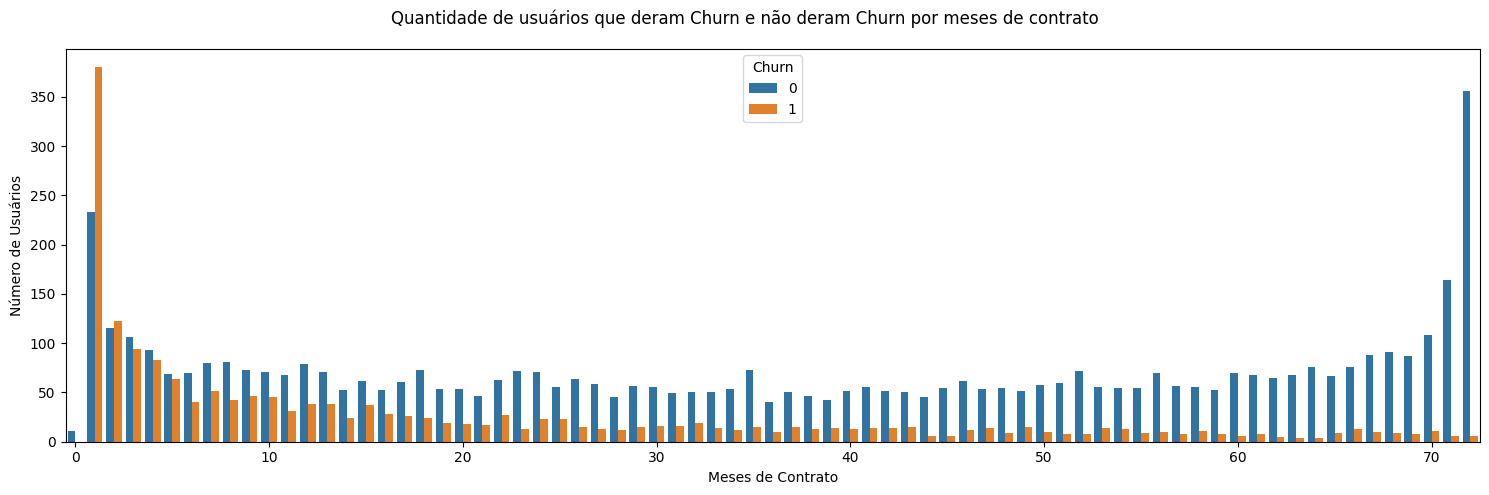
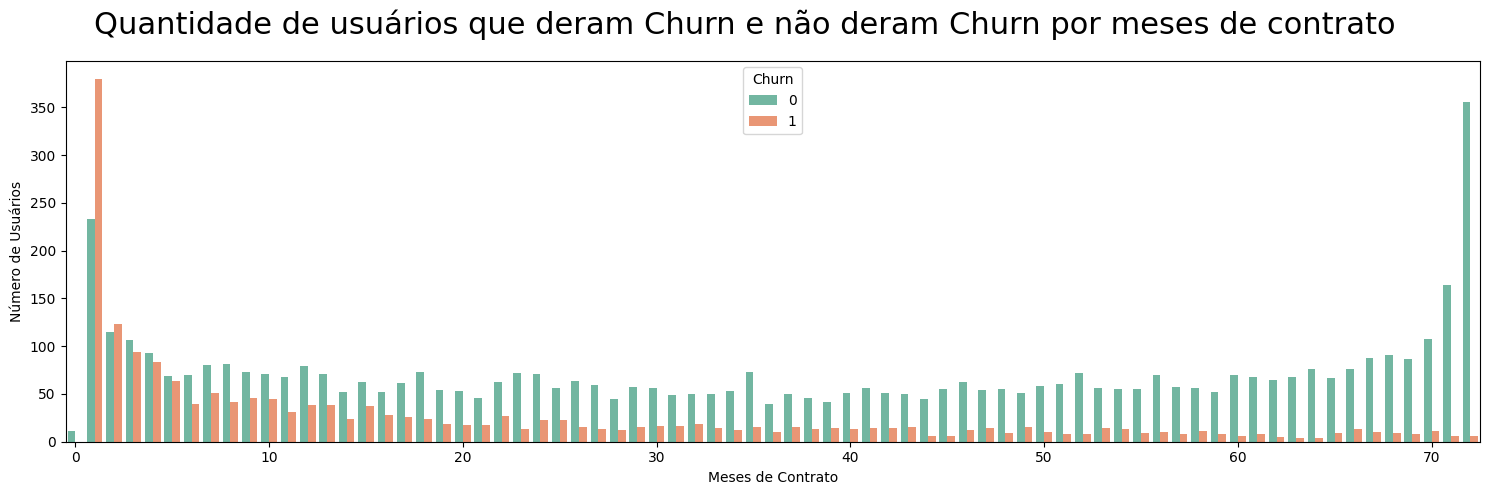
Ajustes finais

diff --git a/analise.py b/analise.py
@@ -22,9 +22,9 @@ plt.tight_layout()
 plt.show()
 # %%
 fig, ax = plt.subplots(figsize=(15,5))
-fig.suptitle("Quantidade de usuários que deram Churn e não deram Churn por meses de contrato")
+fig.suptitle("Quantidade de usuários que deram Churn e não deram Churn por meses de contrato", fontsize=22)
 
-sns.countplot(df, x='tenure', hue='Churn',ax=ax)
+sns.countplot(df, x='tenure', hue='Churn', palette='Set2',ax=ax)
 ax.set_xticks(range(0,df['tenure'].max(), 10))
 ax.set_xlabel("Meses de Contrato")
 ax.set_ylabel("Número de Usuários")

diff --git a/README.md b/README.md
@@ -1,6 +1,15 @@
 # Challenge Telecom X: Análise de Evasão de Clientes
-![Static Badge](https://img.shields.io/badge/status-em_desenvolvimento-blue)
+![Static Badge](https://img.shields.io/badge/status-complete-green)
+
 Desafio promovido pela Oracle Next Education junto da Alura.
+
+## Ferramentas utilizadas
+- requests
+- Python
+- Pandas
+- Numpy
+- Matplotlib
+- Seaborn
 
 ## Objetivos
 Meu desafio aqui é agir como um assistente de análise de dados em um projeto de **Churn de Clientes** dentro da empresa Telecom X. Para isso irei aplicar os conceitos de ETL e fazer a Coleta, tratamento e análise dos dados.
